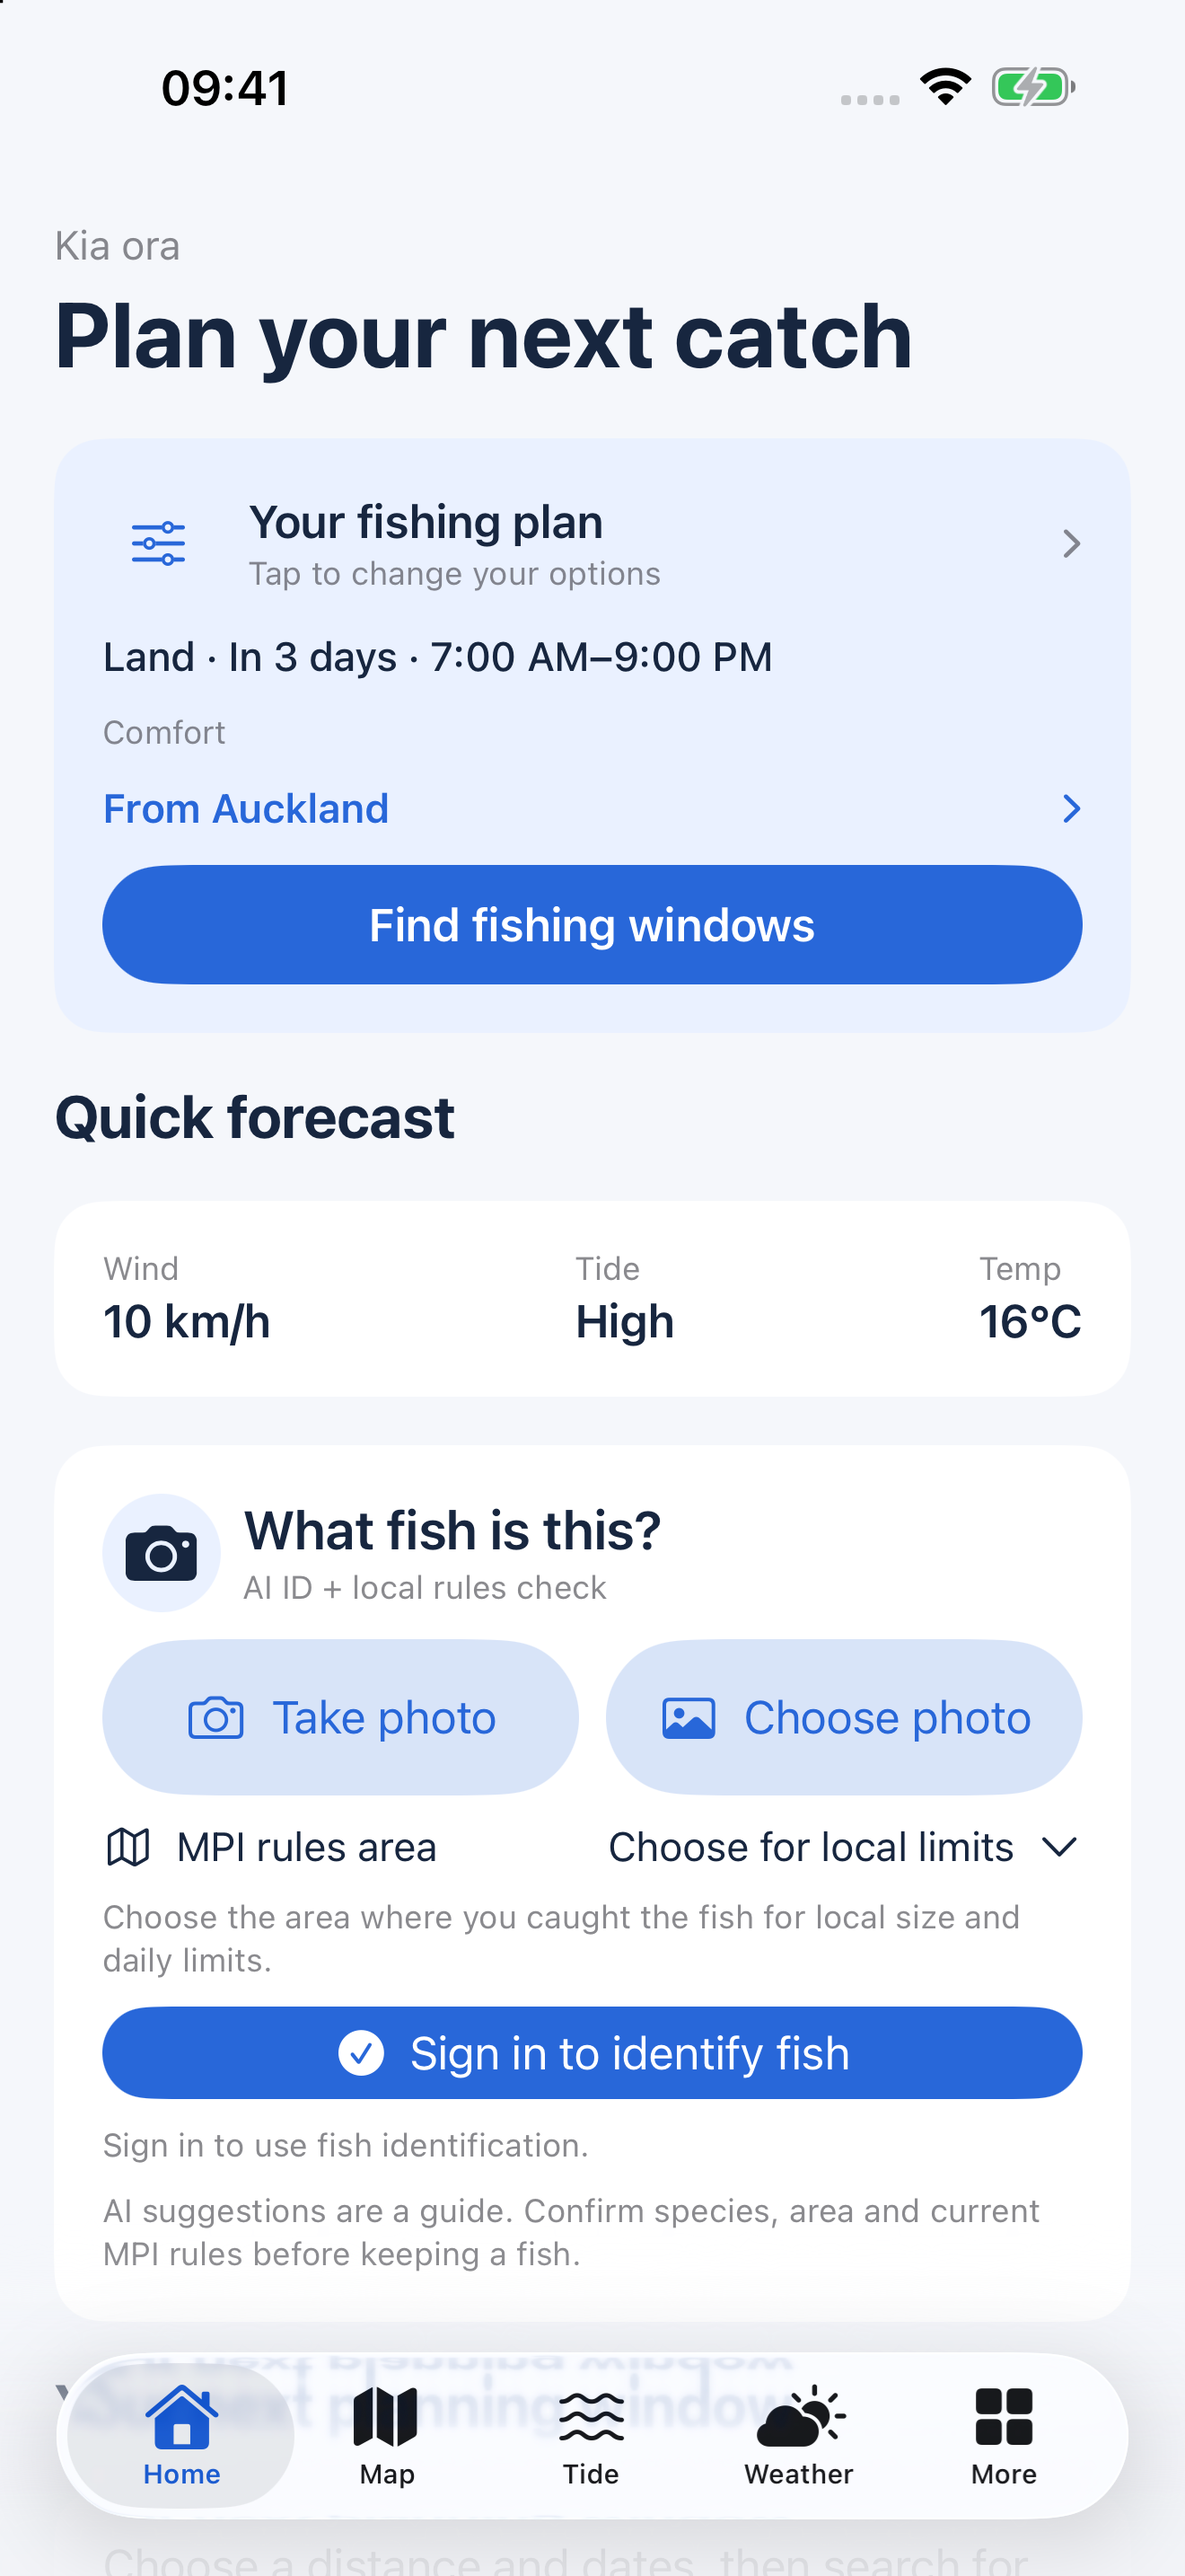
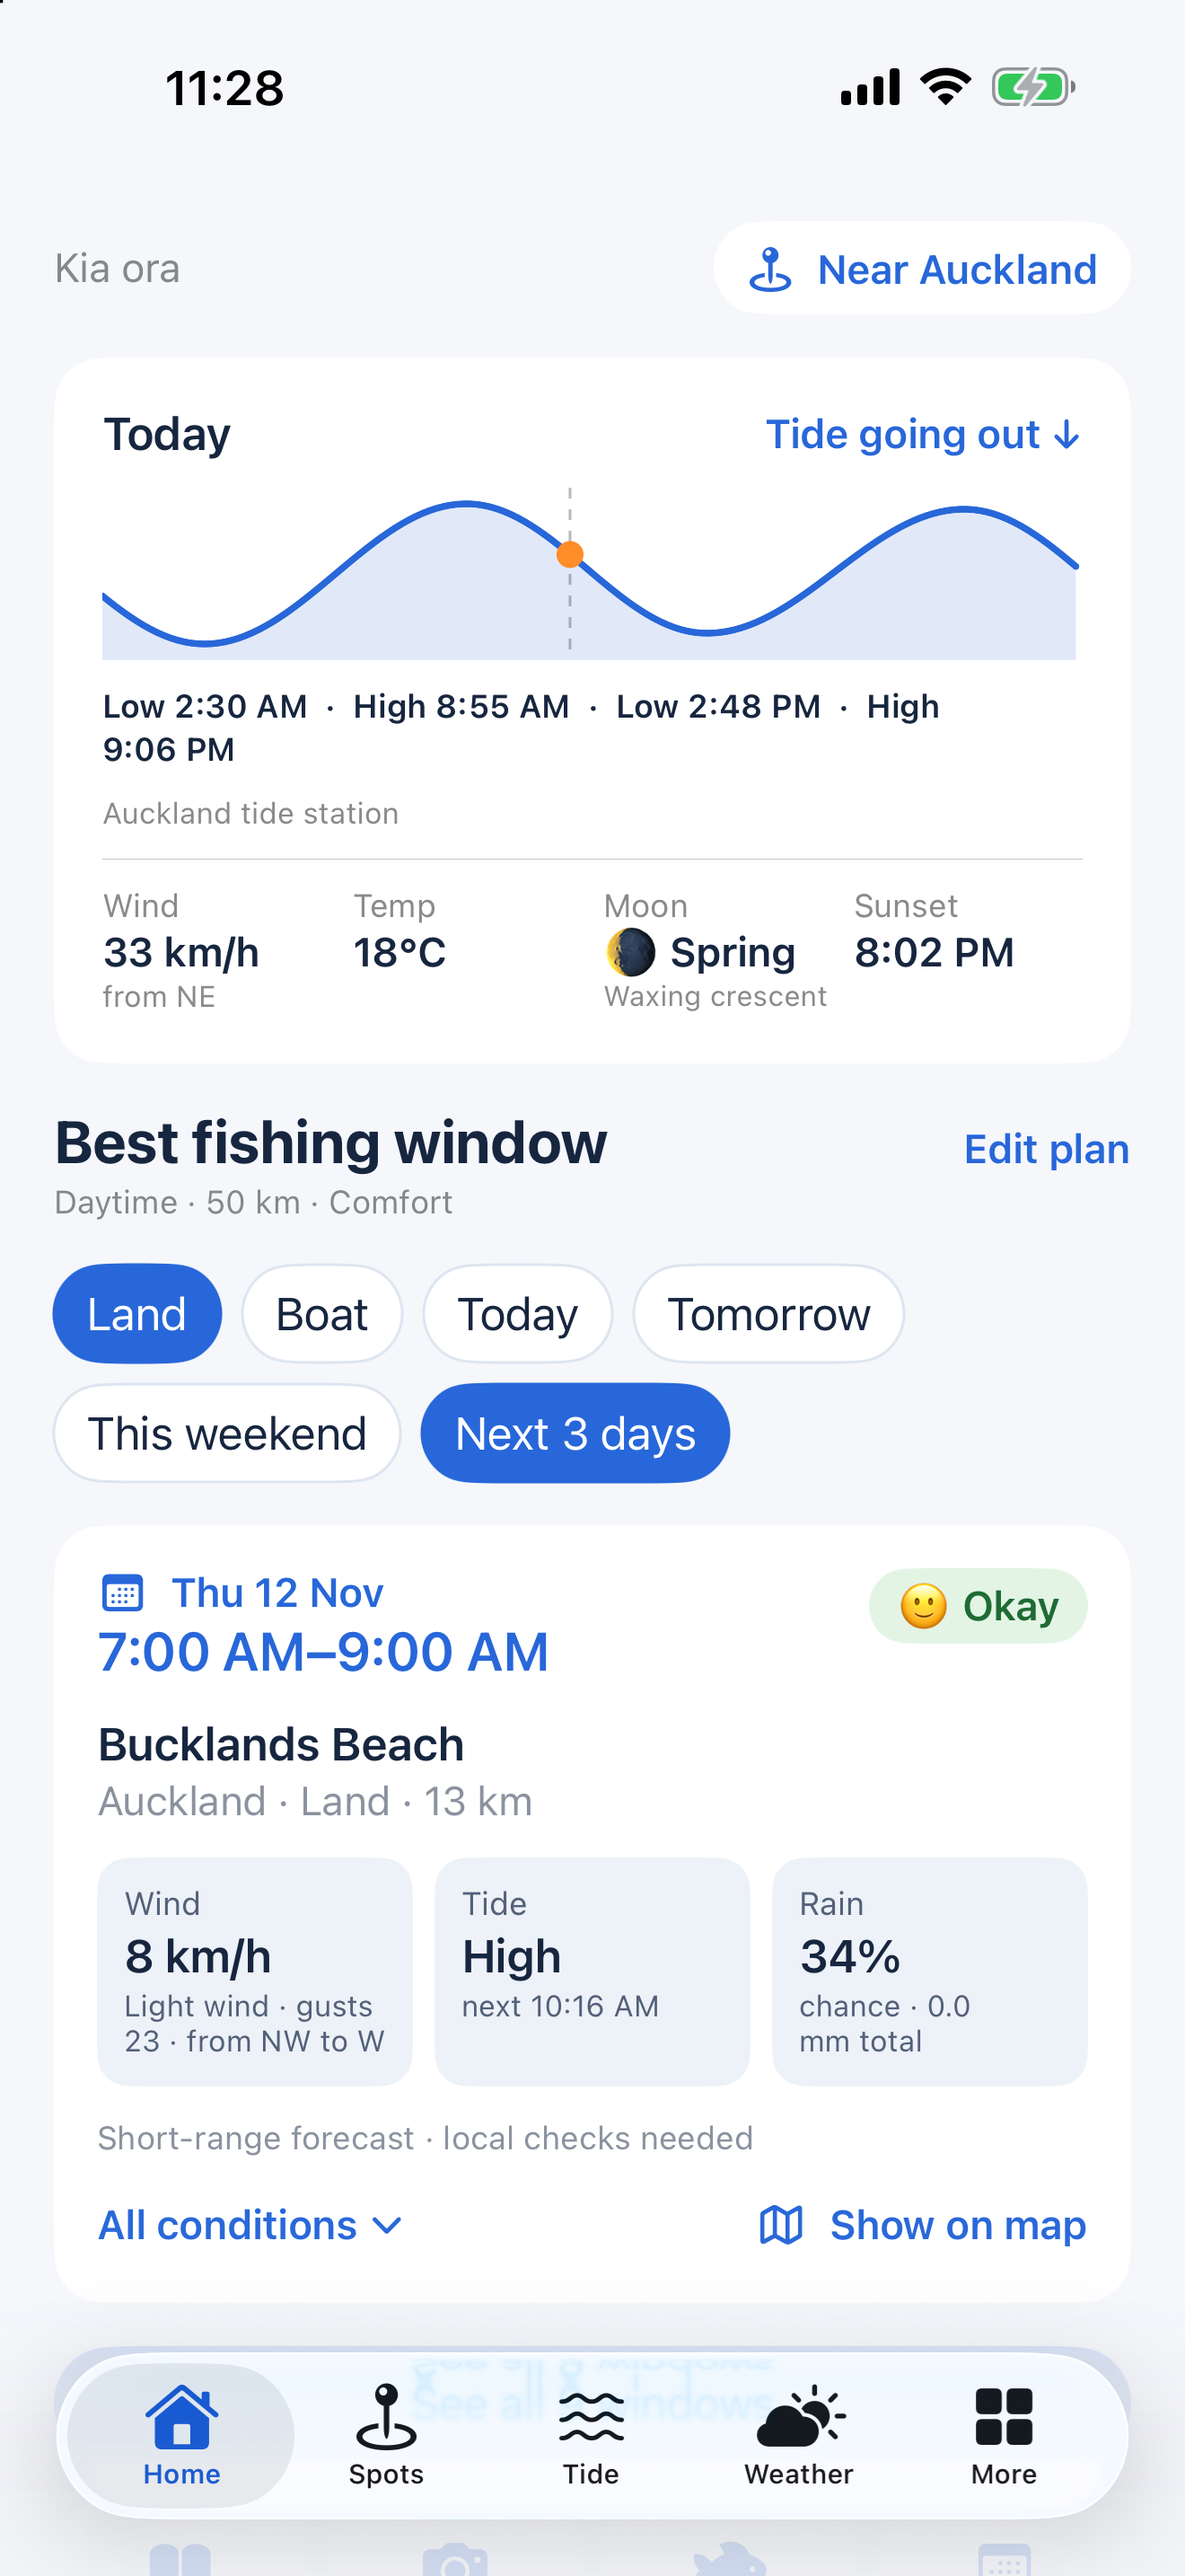
New App Store screenshots for iPhone 1.0.65 (1.0.68)
Six 1320x2868 screenshots of the 1.0.65 app replace the three from October:
Home, best fishing window, Spots map, Fishing rules with Check my catch, tide
curve and Weather, the same screens as Google Play. Taken on the iPhone 17 Pro
Max simulator near Auckland with live data and uploaded to App Store version
1.0.65.

diff --git a/docs/app-store-release.md b/docs/app-store-release.md
@@ -12,7 +12,7 @@ The first release targets iPhone only. The app's Share row and the API's iPhone 
 
 The version page currently has listing text, the swapped build, reviewer sign-in credentials, contact details and manual release selected. Credentials are not copied into this repository. App Privacy, availability, credential validity and physical-device behavior must be verified before resubmission. Third-party rights documentation must only be supplied if actually held; do not assert clearance from attribution alone.
 
-Three real signed-out iPhone 17 Pro Max screenshots (1320×2868) are in [`assets/app-store`](../assets/app-store): home, fishing windows and tides. The simulator displayed live Auckland forecasts and LINZ tide predictions. Release archive, simulator build, 75 shared-window checks, 101 fishing-window checks, 37 place-condition checks, 83 API tests and TypeScript checking passed. Distribution signing logs confirm both Associated Domains and the app's Keychain access group survived re-signing.
+Six real signed-out iPhone 17 Pro Max screenshots (1320×2868, no transparency) of the 1.0.65 app are in [`assets/app-store`](../assets/app-store), in App Store order: Home, best fishing window, Spots map, Fishing rules with Check my catch, tide curve and Weather, the same screens as Google Play. They were taken on 10 November 2026 on the iOS 26.5 simulator near Auckland with live forecasts, tides and rules, and are on version 1.0.65 for the 6.9-inch (large) display; smaller iPhones use them scaled down. Release archive, simulator build, 75 shared-window checks, 101 fishing-window checks, 37 place-condition checks, 83 API tests and TypeScript checking passed. Distribution signing logs confirm both Associated Domains and the app's Keychain access group survived re-signing.
 
 | Requirement | Status |
 | --- | --- |

diff --git a/CHANGELOG.md b/CHANGELOG.md
@@ -1,5 +1,12 @@
 # Changelog
 
+## 1.0.68 — 2026-11-10 (build code 69)
+
+- **New App Store screenshots.** Six 1320×2868 iPhone screenshots of the 1.0.65 app replace the three from October
+  in `assets/app-store` and on App Store version 1.0.65 (6.9-inch display, scaled down for smaller iPhones): Home,
+  best fishing window, Spots map, Fishing rules with Check my catch, tide curve and Weather, the same screens as
+  Google Play. Taken on the iPhone 17 Pro Max simulator near Auckland with live data. No app code changed.
+
 ## 1.0.67 — 2026-11-10 (build code 68)
 
 - **What's New for iPhone 1.0.65 (66).** New iOS release in `server/fishial-proxy/app-versions.json` with four notes

diff --git a/README.md b/README.md
@@ -2,7 +2,7 @@
 
 **Plan your next fishing trip around New Zealand.**
 
-Current project version: **1.0.67 (build code 68)**. The original code is preserved
+Current project version: **1.0.68 (build code 69)**. The original code is preserved
 at Git tag `v1.0.0`. For each future change or commit, run
 `python3 tools/version.py bump`, update [the changelog](CHANGELOG.md), and run
 `python3 tools/version.py check` before committing. See [the version policy](AGENTS.md).
